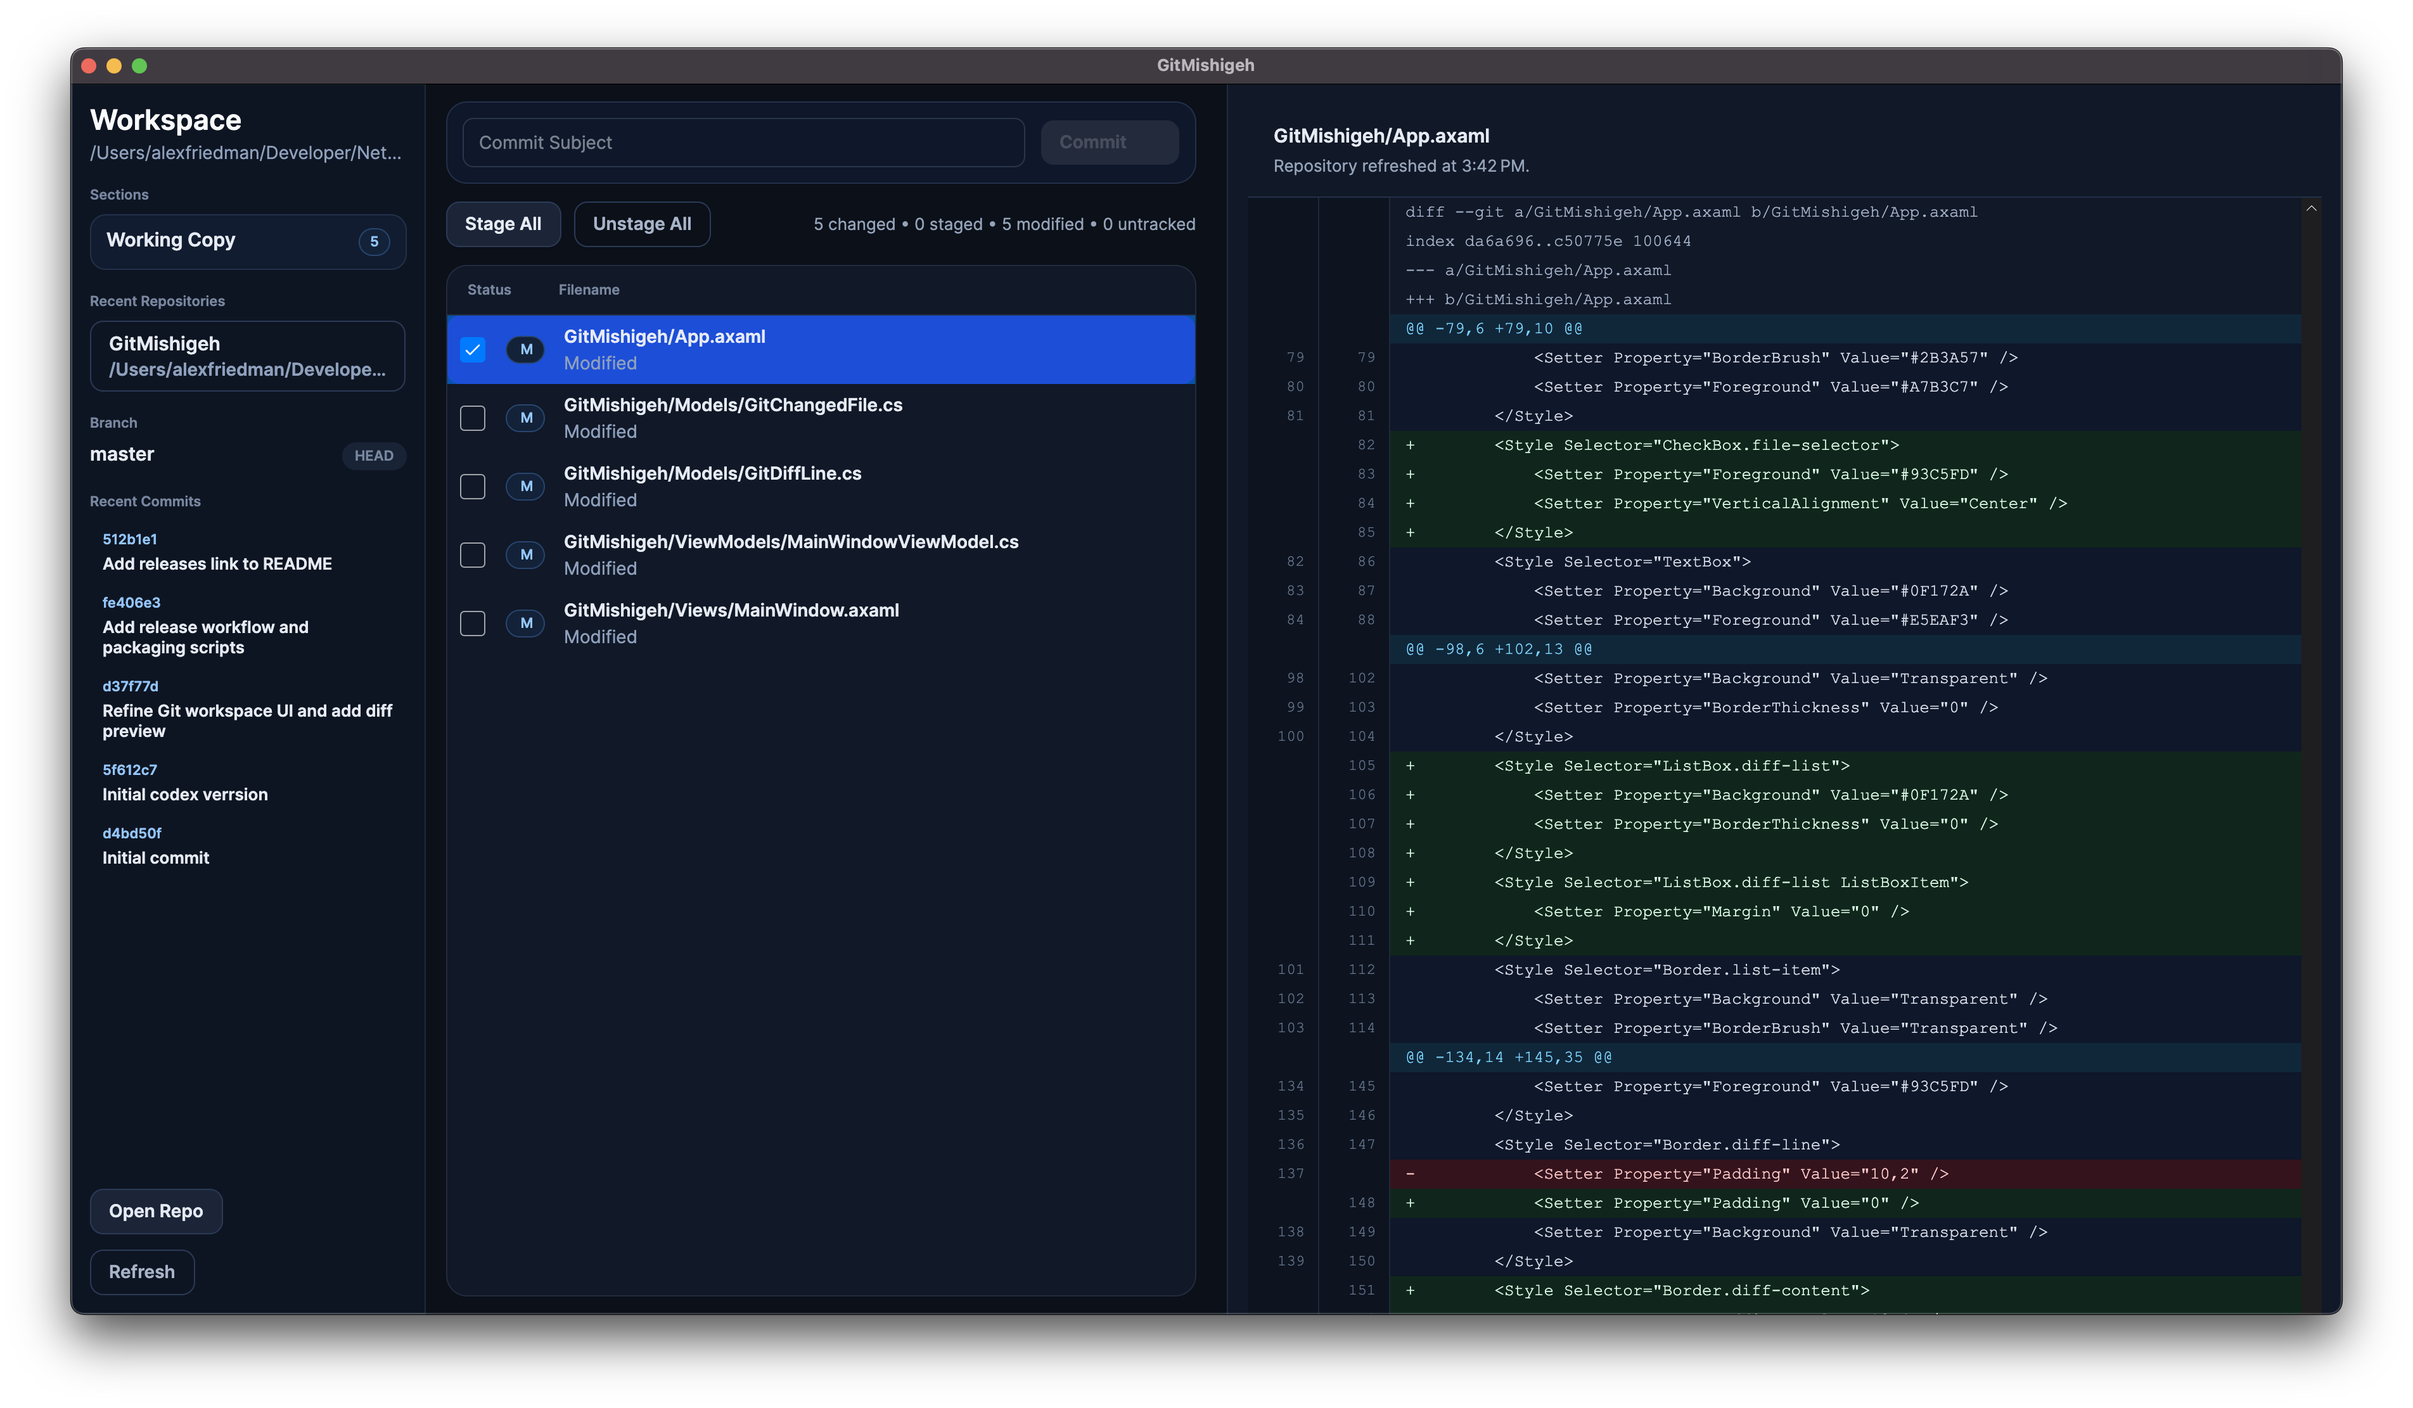
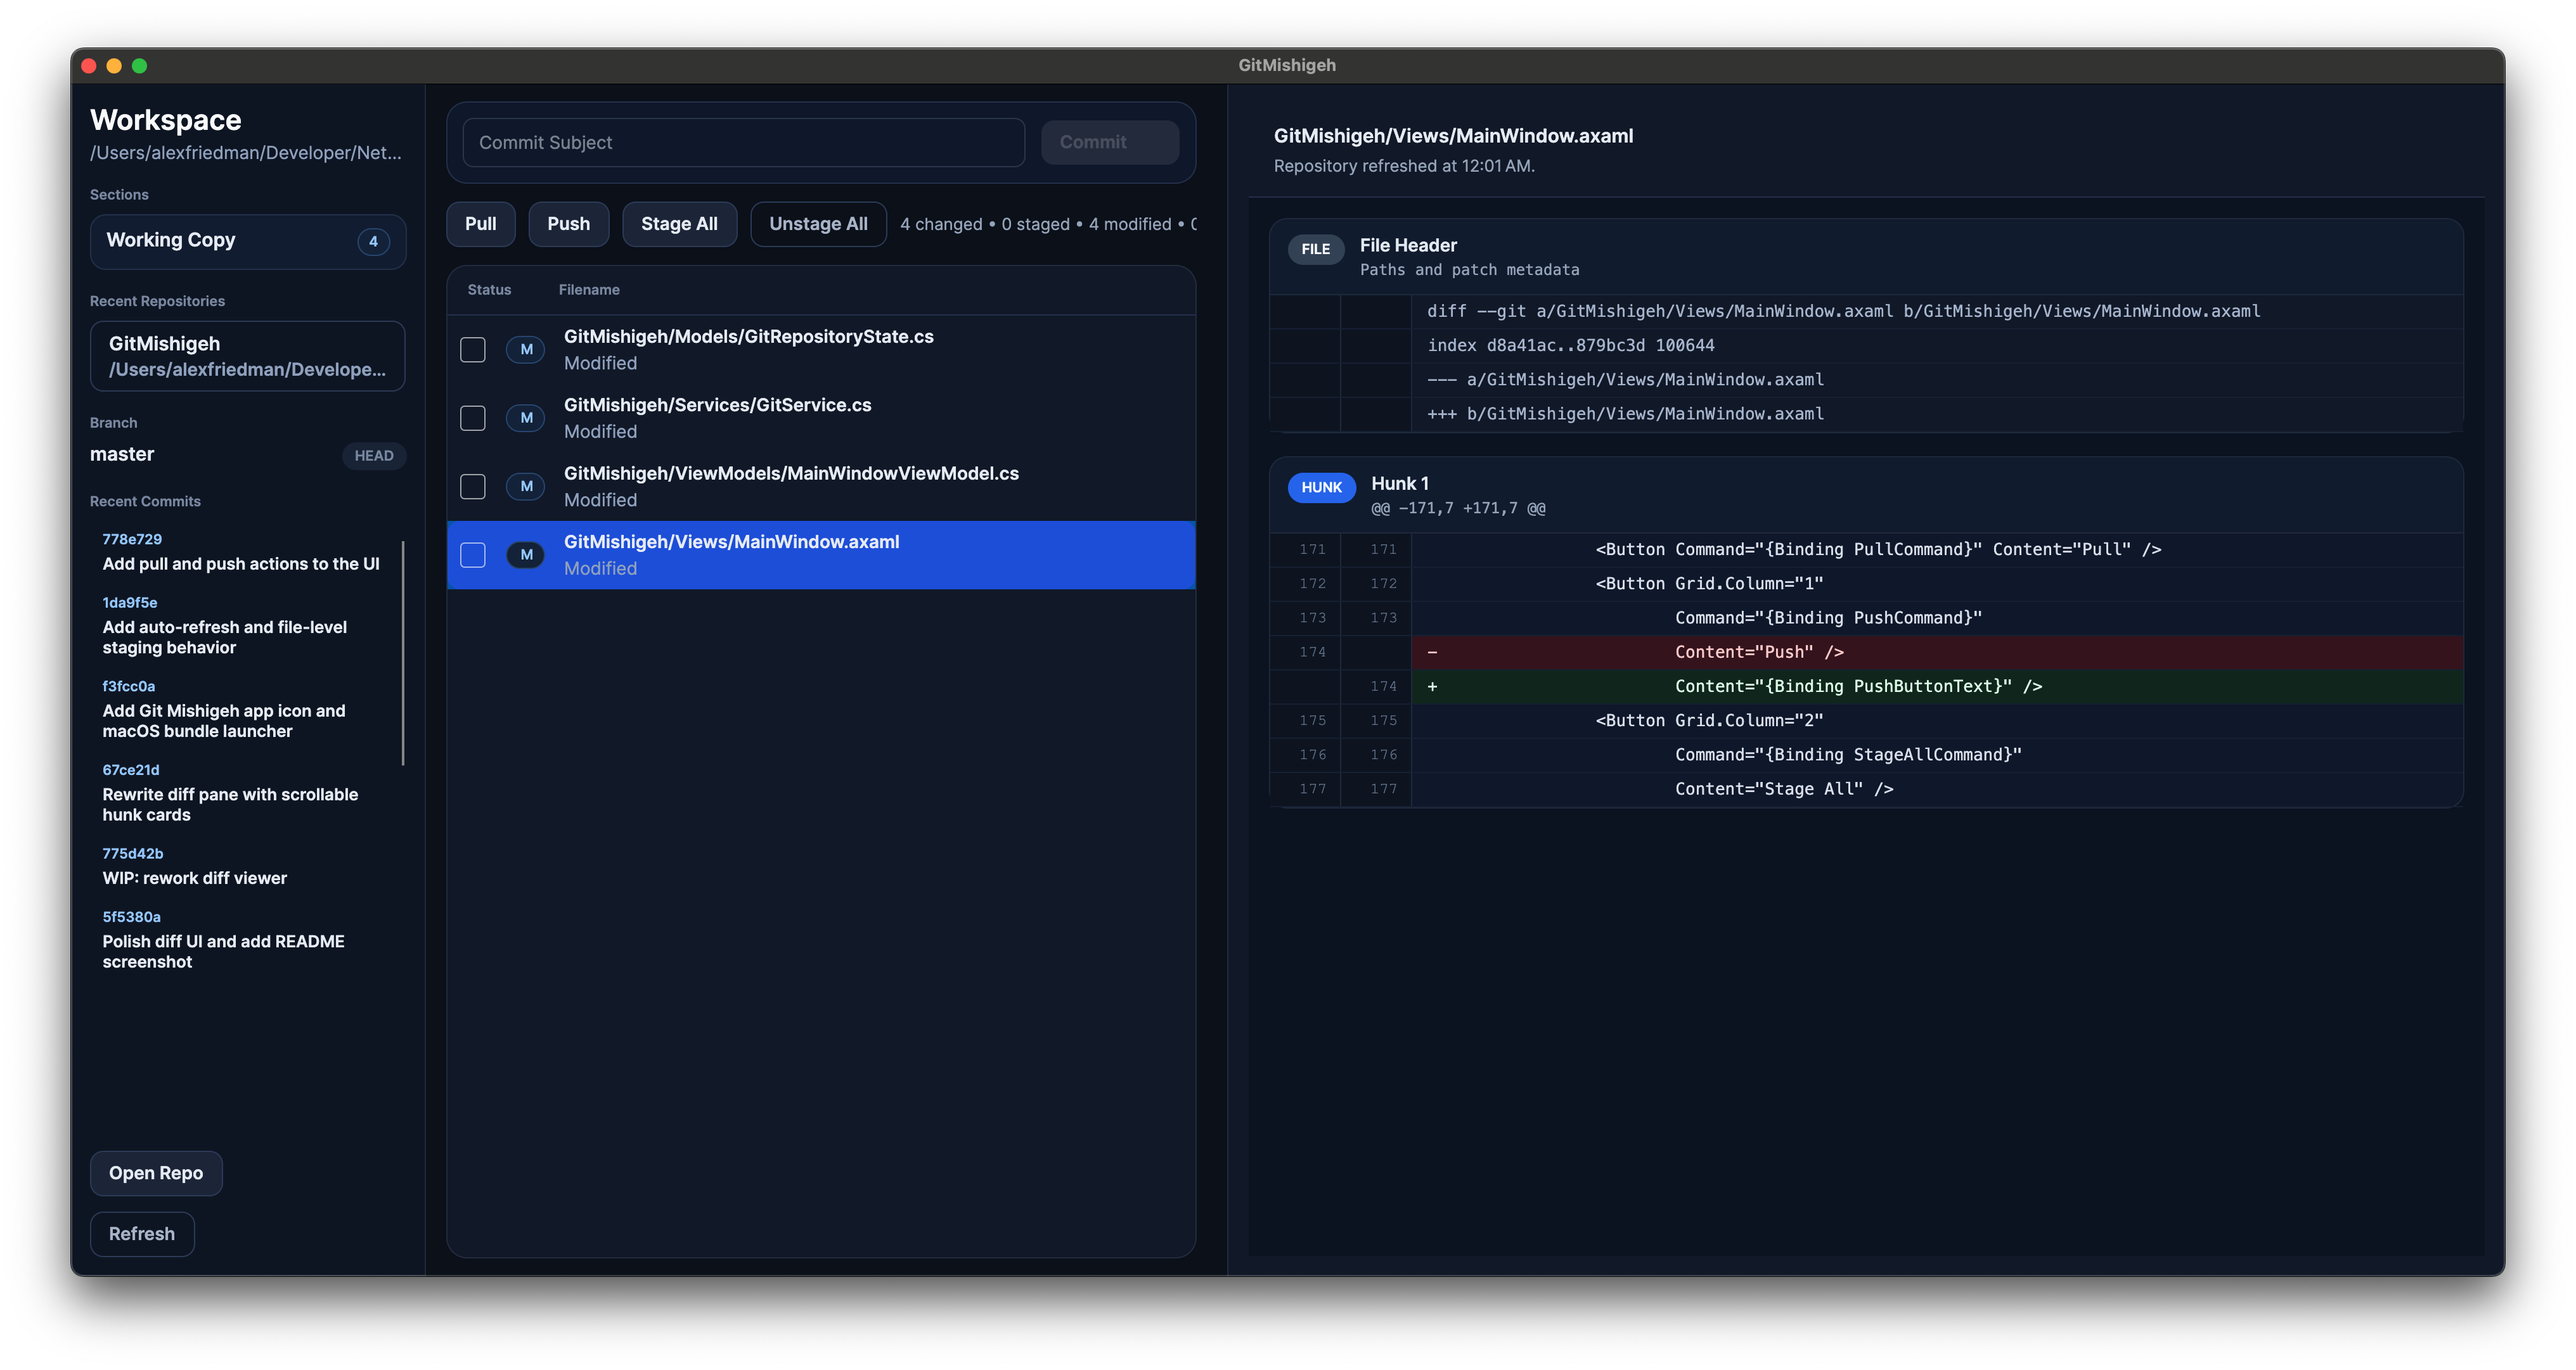
Show push count and refresh app screenshot

diff --git a/GitMishigeh/ViewModels/MainWindowViewModel.cs b/GitMishigeh/ViewModels/MainWindowViewModel.cs
@@ -24,6 +24,8 @@ public partial class MainWindowViewModel : ViewModelBase
     private CancellationTokenSource? _diffCancellationTokenSource;
     private bool _isAutoRefreshing;
     private string _repositoryFingerprint = string.Empty;
+    private int _aheadCount;
+    private int _behindCount;
 
     public MainWindowViewModel() : this(new GitService(), new FolderPickerService(), new RecentRepositoryStore())
     {
@@ -132,6 +134,8 @@ public partial class MainWindowViewModel : ViewModelBase
     public bool HasRecentRepositories => RecentRepositories.Count > 0;
 
     public bool HasDiffSections => DiffSections.Count > 0;
+
+    public string PushButtonText => _aheadCount > 0 ? $"Push ({_aheadCount})" : "Push";
 
     private bool CanOpenRepo() => !IsBusy;
 
@@ -270,11 +274,14 @@ public partial class MainWindowViewModel : ViewModelBase
         _hasValidRepository = true;
         CurrentBranch = repositoryState.CurrentBranch;
         StatusSummary = repositoryState.StatusSummary;
+        _aheadCount = repositoryState.AheadCount;
+        _behindCount = repositoryState.BehindCount;
         SyncCollection(ChangedFiles, repositoryState.ChangedFiles);
         SyncCollection(RecentCommits, repositoryState.RecentCommits);
         UpdateSelectedFileAfterRefresh();
         OnPropertyChanged(nameof(HasChangedFiles));
         OnPropertyChanged(nameof(HasRecentCommits));
+        OnPropertyChanged(nameof(PushButtonText));
         _repositoryFingerprint = BuildRepositoryFingerprint(repositoryState);
     }
 
@@ -283,11 +290,14 @@ public partial class MainWindowViewModel : ViewModelBase
         _hasValidRepository = false;
         CurrentBranch = "Unavailable";
         StatusSummary = "The selected folder is not a Git repository.";
+        _aheadCount = 0;
+        _behindCount = 0;
         SyncCollection(ChangedFiles, Array.Empty<GitChangedFile>());
         SyncCollection(RecentCommits, Array.Empty<GitCommitItem>());
         ClearDiffPreview("Diff Preview", "Select a valid Git repository to inspect file diffs.");
         OnPropertyChanged(nameof(HasChangedFiles));
         OnPropertyChanged(nameof(HasRecentCommits));
+        OnPropertyChanged(nameof(PushButtonText));
         OutputMessage = message;
         _repositoryFingerprint = string.Empty;
     }
@@ -724,6 +734,8 @@ public partial class MainWindowViewModel : ViewModelBase
         var builder = new StringBuilder();
         builder.Append(repositoryState.CurrentBranch).Append('|');
         builder.Append(repositoryState.StatusSummary).Append('|');
+        builder.Append(repositoryState.AheadCount).Append('|');
+        builder.Append(repositoryState.BehindCount).Append('|');
 
         foreach (var changedFile in repositoryState.ChangedFiles)
         {

diff --git a/GitMishigeh/Services/GitService.cs b/GitMishigeh/Services/GitService.cs
@@ -23,10 +23,13 @@ public sealed class GitService : IGitService
         var statusOutput = await statusTask;
         var recentCommits = await logTask;
         var changedFiles = ParseChangedFiles(statusOutput.StandardOutput);
+        ParseRemoteTrackingCounts(statusOutput.StandardOutput, out var aheadCount, out var behindCount);
 
         return new GitRepositoryState(
             ParseCurrentBranch(statusOutput.StandardOutput),
             BuildStatusSummary(changedFiles),
+            aheadCount,
+            behindCount,
             changedFiles,
             recentCommits);
     }
@@ -280,6 +283,47 @@ public sealed class GitService : IGitService
 
         var endIndex = branchInfo.IndexOfAny(new[] { '.', ' ', '[' });
         return endIndex >= 0 ? branchInfo[..endIndex] : branchInfo;
+    }
+
+    private static void ParseRemoteTrackingCounts(string statusOutput, out int aheadCount, out int behindCount)
+    {
+        aheadCount = 0;
+        behindCount = 0;
+
+        var header = statusOutput
+            .Split(new[] { "\r\n", "\n" }, StringSplitOptions.RemoveEmptyEntries)
+            .FirstOrDefault();
+
+        if (string.IsNullOrWhiteSpace(header))
+        {
+            return;
+        }
+
+        var aheadMarker = "ahead ";
+        var behindMarker = "behind ";
+
+        var aheadIndex = header.IndexOf(aheadMarker, StringComparison.Ordinal);
+        if (aheadIndex >= 0)
+        {
+            aheadCount = ParseTrackingCount(header, aheadIndex + aheadMarker.Length);
+        }
+
+        var behindIndex = header.IndexOf(behindMarker, StringComparison.Ordinal);
+        if (behindIndex >= 0)
+        {
+            behindCount = ParseTrackingCount(header, behindIndex + behindMarker.Length);
+        }
+    }
+
+    private static int ParseTrackingCount(string header, int startIndex)
+    {
+        var endIndex = startIndex;
+        while (endIndex < header.Length && char.IsDigit(header[endIndex]))
+        {
+            endIndex++;
+        }
+
+        return int.TryParse(header[startIndex..endIndex], out var count) ? count : 0;
     }
 
     private static string BuildStatusSummary(IReadOnlyCollection<GitChangedFile> changedFiles)

diff --git a/GitMishigeh/Models/GitRepositoryState.cs b/GitMishigeh/Models/GitRepositoryState.cs
@@ -7,11 +7,15 @@ public sealed class GitRepositoryState
     public GitRepositoryState(
         string currentBranch,
         string statusSummary,
+        int aheadCount,
+        int behindCount,
         IReadOnlyList<GitChangedFile> changedFiles,
         IReadOnlyList<GitCommitItem> recentCommits)
     {
         CurrentBranch = currentBranch;
         StatusSummary = statusSummary;
+        AheadCount = aheadCount;
+        BehindCount = behindCount;
         ChangedFiles = changedFiles;
         RecentCommits = recentCommits;
     }
@@ -19,6 +23,10 @@ public sealed class GitRepositoryState
     public string CurrentBranch { get; }
 
     public string StatusSummary { get; }
+
+    public int AheadCount { get; }
+
+    public int BehindCount { get; }
 
     public IReadOnlyList<GitChangedFile> ChangedFiles { get; }
 
